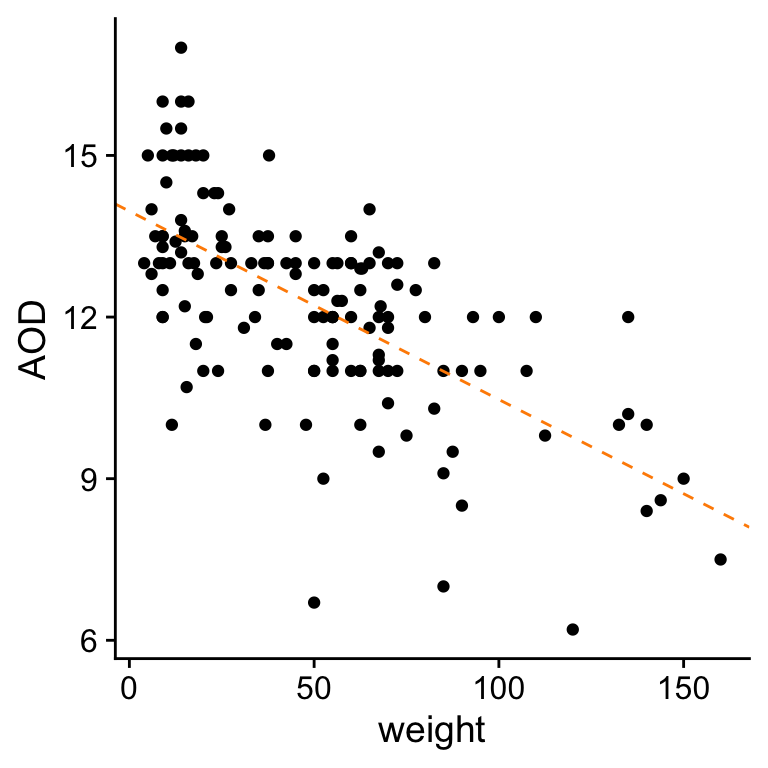
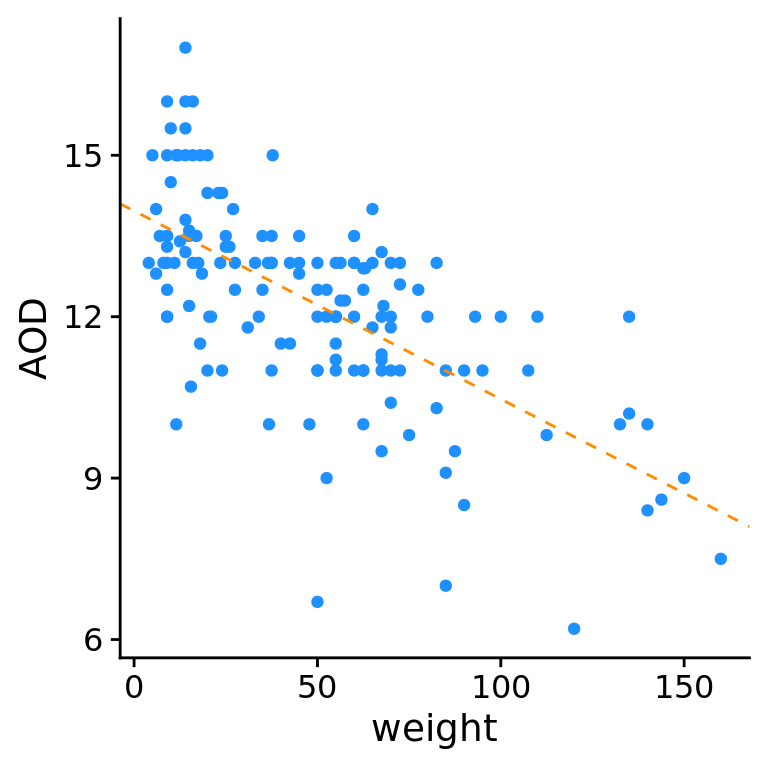
Re-published dogs analysis on Binder.

diff --git a/docs/dogs.html b/docs/dogs.html
@@ -14,6 +14,7 @@
 
 <title>Analyze AOD vs. weight in dog breeds</title>
 
+<script src="site_libs/header-attrs-2.1/header-attrs.js"></script>
 <script src="site_libs/jquery-1.11.3/jquery.min.js"></script>
 <meta name="viewport" content="width=device-width, initial-scale=1" />
 <link href="site_libs/bootstrap-3.3.5/css/readable.min.css" rel="stylesheet" />
@@ -31,6 +32,8 @@ div.section {
   padding-top: 12px;
 }
 </style>
+
+
 
 <style type="text/css">code{white-space: pre;}</style>
 <style type="text/css">
@@ -321,13 +324,13 @@ $(document).ready(function () {
 <div class="tab-content">
 <div id="summary" class="tab-pane fade in active">
 <p>
-<strong>Last updated:</strong> 2020-05-22
+<strong>Last updated:</strong> 2020-05-23
 </p>
 <p>
 <strong>Checks:</strong> <span class="glyphicon glyphicon-ok text-success" aria-hidden="true"></span> 7 <span class="glyphicon glyphicon-exclamation-sign text-danger" aria-hidden="true"></span> 0
 </p>
 <p>
-<strong>Knit directory:</strong> <code>wflow-dogs/analysis/</code> <span class="glyphicon glyphicon-question-sign" aria-hidden="true" title="This is the local directory in which the code in this file was executed."> </span>
+<strong>Knit directory:</strong> <code>jovyan/analysis/</code> <span class="glyphicon glyphicon-question-sign" aria-hidden="true" title="This is the local directory in which the code in this file was executed."> </span>
 </p>
 <p>
 This reproducible <a href="http://rmarkdown.rstudio.com">R Markdown</a> analysis was created with <a
@@ -369,7 +372,7 @@ This reproducible <a href="http://rmarkdown.rstudio.com">R Markdown</a> analysis
 </div>
 <div id="strongSeedstrongcodesetseed1code" class="panel-collapse collapse">
 <div class="panel-body">
-<p>The command <code>set.seed(1)</code> was run prior to running the code in the R Markdown file. Setting a seed ensures that any results that rely on randomness, e.g. subsampling or permutations, are reproducible.</p>
+<p>The command <code>set.seed(1)</code> was run prior to running the code in the R Markdown file. Setting a seed ensures that any results that rely on randomness, e.g. subsampling or permutations, are reproducible.</p>
 </div>
 </div>
 </div>
@@ -412,22 +415,34 @@ This reproducible <a href="http://rmarkdown.rstudio.com">R Markdown</a> analysis
 <div class="panel panel-default">
 <div class="panel-heading">
 <p class="panel-title">
-<a data-toggle="collapse" data-parent="#workflowr-checks" href="#strongRepositoryversionstrongahrefhttpsgithubcompcarbowflowdogstree08eed5a343c4b4ac9985731afa8e7b54ca377075targetblank08eed5aa"> <span class="glyphicon glyphicon-ok text-success" aria-hidden="true"></span> <strong>Repository version:</strong> <a href="https://github.com/pcarbo/wflow-dogs/tree/08eed5a343c4b4ac9985731afa8e7b54ca377075" target="_blank">08eed5a</a> </a>
+<a data-toggle="collapse" data-parent="#workflowr-checks" href="#strongRepositoryversionstrongahrefhttpsgithubcompcarbowflowdogstree50661b29a2c9fa8c8d623a9a3858d1a9447464dctargetblank50661b2a"> <span class="glyphicon glyphicon-ok text-success" aria-hidden="true"></span> <strong>Repository version:</strong> <a href="https://github.com/pcarbo/wflow-dogs/tree/50661b29a2c9fa8c8d623a9a3858d1a9447464dc" target="_blank">50661b2</a> </a>
 </p>
 </div>
[2 lines of base64/hex data omitted]
 <div class="panel-body">
 <p>
 Great! You are using Git for version control. Tracking code development and connecting the code version to the results is critical for reproducibility.
 </p>
 <p>
-The results in this page were generated with repository version <a href="https://github.com/pcarbo/wflow-dogs/tree/08eed5a343c4b4ac9985731afa8e7b54ca377075" target="_blank">08eed5a</a>. See the <em>Past versions</em> tab to see a history of the changes made to the R Markdown and HTML files.
+The results in this page were generated with repository version <a href="https://github.com/pcarbo/wflow-dogs/tree/50661b29a2c9fa8c8d623a9a3858d1a9447464dc" target="_blank">50661b2</a>. See the <em>Past versions</em> tab to see a history of the changes made to the R Markdown and HTML files.
 </p>
 <p>
 Note that you need to be careful to ensure that all relevant files for the analysis have been committed to Git prior to generating the results (you can use <code>wflow_publish</code> or <code>wflow_git_commit</code>). workflowr only checks the R Markdown file, but you know if there are other scripts or data files that it depends on. Below is the status of the Git repository when the results were generated:
 </p>
 <pre><code>
-working directory clean
+Ignored files:
+    Ignored:    .cache/
+
+Untracked files:
+    Untracked:  .bash_logout
+    Untracked:  .bashrc
+    Untracked:  .config/
+    Untracked:  .gitconfig
+    Untracked:  .local/
+    Untracked:  .profile
+    Untracked:  .rstudio/
+    Untracked:  .subversion/
+
 </code></pre>
 <p>
 Note that any generated files, e.g. HTML, png, CSS, etc., are not included in this status report because it is ok for generated content to have uncommitted changes.
@@ -470,13 +485,47 @@ Message
 Rmd
 </td>
 <td>
+<a href="https://github.com/pcarbo/wflow-dogs/blob/50661b29a2c9fa8c8d623a9a3858d1a9447464dc/analysis/dogs.Rmd" target="_blank">50661b2</a>
+</td>
+<td>
+Peter Carbonetto
+</td>
+<td>
+2020-05-23
+</td>
+<td>
+wflow_publish(“dogs.Rmd”)
+</td>
+</tr>
+<tr>
+<td>
+html
+</td>
+<td>
+<a href="https://rawcdn.githack.com/pcarbo/wflow-dogs/0f1a6ed840bff2417245ed0eac1e865e16c7840e/docs/dogs.html" target="_blank">0f1a6ed</a>
+</td>
+<td>
+Peter Carbonetto
+</td>
+<td>
+2020-05-23
+</td>
+<td>
+Deleted sentence in “dogs” analysis.
+</td>
+</tr>
+<tr>
+<td>
+Rmd
+</td>
+<td>
 <a href="https://github.com/pcarbo/wflow-dogs/blob/08eed5a343c4b4ac9985731afa8e7b54ca377075/analysis/dogs.Rmd" target="_blank">08eed5a</a>
 </td>
 <td>
 Peter Carbonetto
 </td>
 <td>
-2020-05-22
+2020-05-23
 </td>
 <td>
 wflow_publish(“dogs.Rmd”)
@@ -493,7 +542,7 @@ html
 Peter Carbonetto
 </td>
 <td>
-2020-05-22
+2020-05-23
 </td>
 <td>
 Added text to “dogs” analysis.
@@ -510,7 +559,7 @@ Rmd
 Peter Carbonetto
 </td>
 <td>
-2020-05-22
+2020-05-23
 </td>
 <td>
 wflow_publish(“dogs.Rmd”)
@@ -527,7 +576,7 @@ html
 Peter Carbonetto
 </td>
 <td>
-2020-05-22
+2020-05-23
 </td>
 <td>
 Fixed the plot in the “dogs” analysis.
@@ -544,7 +593,7 @@ Rmd
 Peter Carbonetto
 </td>
 <td>
-2020-05-22
+2020-05-23
 </td>
 <td>
 wflow_publish(“dogs.Rmd”)
@@ -561,7 +610,7 @@ html
 Peter Carbonetto
 </td>
 <td>
-2020-05-22
+2020-05-23
 </td>
 <td>
 Made some adjustments to the “dogs” analysis.
@@ -578,7 +627,7 @@ Rmd
 Peter Carbonetto
 </td>
 <td>
-2020-05-22
+2020-05-23
 </td>
 <td>
 wflow_publish(“dogs.Rmd”)
@@ -595,7 +644,7 @@ html
 Peter Carbonetto
 </td>
 <td>
-2020-05-22
+2020-05-23
 </td>
 <td>
 Generated “dogs” webpage for first time.
@@ -612,7 +661,7 @@ Rmd
 Peter Carbonetto
 </td>
 <td>
-2020-05-22
+2020-05-23
 </td>
 <td>
 wflow_publish(“dogs.Rmd”)
@@ -629,7 +678,7 @@ Rmd
 Peter Carbonetto
 </td>
 <td>
-2020-05-22
+2020-05-23
 </td>
 <td>
 Fixed workflowr settings and added dogs.Rmd.
@@ -657,11 +706,11 @@ library(cowplot)</code></pre>
 <pre class="r"><code>fit &lt;- lm(AOD ~ weight,dogs)
 b   &lt;- coef(fit)</code></pre>
 </div>
-<div id="plot-aod-vs.body-weight" class="section level2">
+<div id="plot-aod-vs.-body-weight" class="section level2">
 <h2>Plot AOD vs. body weight</h2>
 <p>Plot age-of-death vs. body weight, and the best-fit line (this is the dashed blue line). Compare with Fig. 4 of Jones et al (2008).</p>
 <pre class="r"><code>ggplot(dogs,aes(x = weight,y = AOD)) +
-  geom_point(color = &quot;black&quot;) +
+  geom_point(color = &quot;dodgerblue&quot;) +
   geom_abline(intercept = b[&quot;(Intercept)&quot;],slope = b[&quot;weight&quot;],
               color = &quot;darkorange&quot;,linetype = &quot;dashed&quot;) +
   theme_cowplot()</code></pre>
@@ -696,7 +745,7 @@ Date
 Peter Carbonetto
 </td>
 <td>
-2020-05-22
+2020-05-23
 </td>
 </tr>
 </tbody>
@@ -711,16 +760,21 @@ Peter Carbonetto
 </p>
 <div id="workflowr-sessioninfo" class="collapse">
 <pre class="r"><code>sessionInfo()
-# R version 3.6.2 (2019-12-12)
-# Platform: x86_64-apple-darwin15.6.0 (64-bit)
-# Running under: macOS Catalina 10.15.4
+# R version 3.6.3 (2020-02-29)
+# Platform: x86_64-pc-linux-gnu (64-bit)
+# Running under: Ubuntu 18.04.4 LTS
 # 
 # Matrix products: default
-# BLAS:   /Library/Frameworks/R.framework/Versions/3.6/Resources/lib/libRblas.0.dylib
-# LAPACK: /Library/Frameworks/R.framework/Versions/3.6/Resources/lib/libRlapack.dylib
+# BLAS:   /usr/lib/x86_64-linux-gnu/blas/libblas.so.3.7.1
+# LAPACK: /usr/lib/x86_64-linux-gnu/lapack/liblapack.so.3.7.1
 # 
 # locale:
-# [1] en_US.UTF-8/en_US.UTF-8/en_US.UTF-8/C/en_US.UTF-8/en_US.UTF-8
+#  [1] LC_CTYPE=en_US.UTF-8       LC_NUMERIC=C              
+#  [3] LC_TIME=en_US.UTF-8        LC_COLLATE=en_US.UTF-8    
+#  [5] LC_MONETARY=en_US.UTF-8    LC_MESSAGES=en_US.UTF-8   
+#  [7] LC_PAPER=en_US.UTF-8       LC_NAME=C                 
+#  [9] LC_ADDRESS=C               LC_TELEPHONE=C            
+# [11] LC_MEASUREMENT=en_US.UTF-8 LC_IDENTIFICATION=C       
 # 
 # attached base packages:
 # [1] stats     graphics  grDevices utils     datasets  methods   base     
@@ -729,17 +783,16 @@ Peter Carbonetto
 # [1] cowplot_1.0.0 ggplot2_3.3.0
 # 
 # loaded via a namespace (and not attached):
-#  [1] Rcpp_1.0.3       compiler_3.6.2   pillar_1.4.3     later_1.0.0     
-#  [5] git2r_0.26.1     workflowr_1.6.2  tools_3.6.2      digest_0.6.23   
-#  [9] evaluate_0.14    lifecycle_0.1.0  tibble_2.1.3     gtable_0.3.0    
-# [13] pkgconfig_2.0.3  rlang_0.4.5      yaml_2.2.0       xfun_0.11       
-# [17] withr_2.1.2      stringr_1.4.0    dplyr_0.8.3      knitr_1.26      
-# [21] fs_1.3.1         rprojroot_1.3-2  grid_3.6.2       tidyselect_0.2.5
-# [25] glue_1.3.1       R6_2.4.1         rmarkdown_2.0    farver_2.0.1    
-# [29] purrr_0.3.3      magrittr_1.5     whisker_0.4      backports_1.1.5 
-# [33] scales_1.1.0     promises_1.1.0   htmltools_0.4.0  assertthat_0.2.1
-# [37] colorspace_1.4-1 httpuv_1.5.2     labeling_0.3     stringi_1.4.3   
-# [41] munsell_0.5.0    crayon_1.3.4</code></pre>
+#  [1] Rcpp_1.0.4.6     knitr_1.28       whisker_0.3-2    magrittr_1.5    
+#  [5] workflowr_1.6.2  munsell_0.5.0    colorspace_1.4-1 R6_2.2.2        
+#  [9] rlang_0.4.6      stringr_1.4.0    tools_3.6.3      grid_3.6.3      
+# [13] gtable_0.3.0     xfun_0.14        withr_2.2.0      git2r_0.27.1    
+# [17] ellipsis_0.3.1   htmltools_0.4.0  yaml_2.2.1       digest_0.6.25   
+# [21] rprojroot_1.3-2  tibble_3.0.1     lifecycle_0.2.0  crayon_1.3.4    
+# [25] farver_2.0.3     later_1.0.0      vctrs_0.3.0      promises_1.1.0  
+# [29] fs_1.4.1         glue_1.4.1       evaluate_0.14    rmarkdown_2.1   
+# [33] labeling_0.3     stringi_1.4.6    pillar_1.4.4     compiler_3.6.3  
+# [37] scales_1.1.1     backports_1.1.7  httpuv_1.5.2     pkgconfig_2.0.3</code></pre>
 </div>
 </div>
 
@@ -755,6 +808,8 @@ footer is added to webpages before the MathJax javascript. -->
     "HTML-CSS": { availableFonts: ["TeX"] }
   });
 </script>
+
+
 
 
 

diff --git a/docs/site_libs/header-attrs-2.1/header-attrs.js b/docs/site_libs/header-attrs-2.1/header-attrs.js
@@ -1,0 +1,12 @@
+// Pandoc 2.9 adds attributes on both header and div. We remove the former (to
+// be compatible with the behavior of Pandoc < 2.8).
+document.addEventListener('DOMContentLoaded', function(e) {
+  var hs = document.querySelectorAll("div.section[class*='level'] > :first-child");
+  var i, h, a;
+  for (i = 0; i < hs.length; i++) {
+    h = hs[i];
+    if (!/^h[1-6]$/i.test(h.tagName)) continue;  // it should be a header h1-h6
+    a = h.attributes;
+    while (a.length > 0) h.removeAttribute(a[0].name);
+  }
+});
